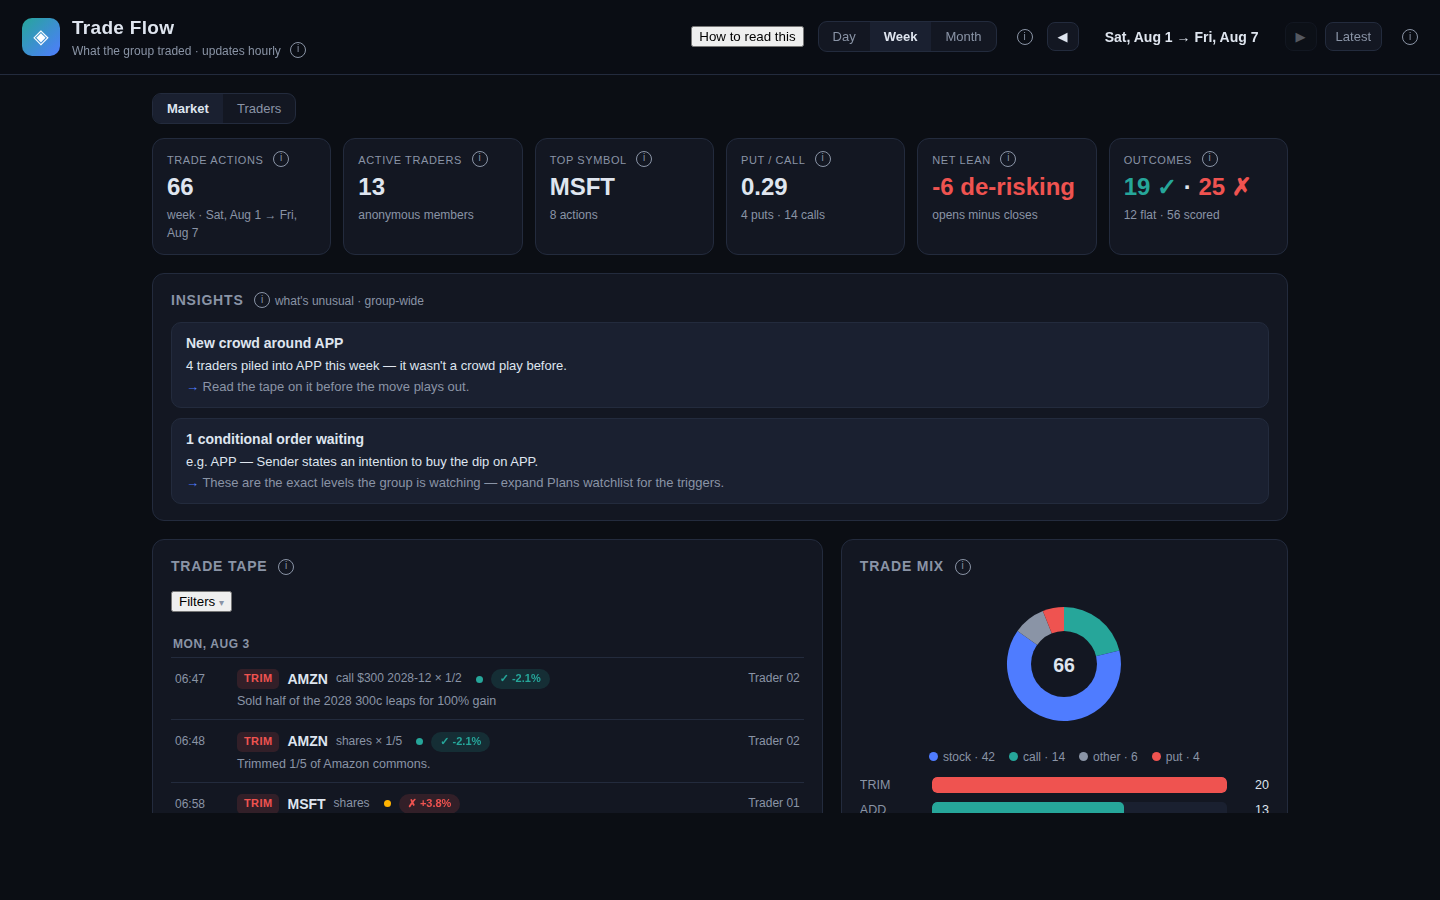
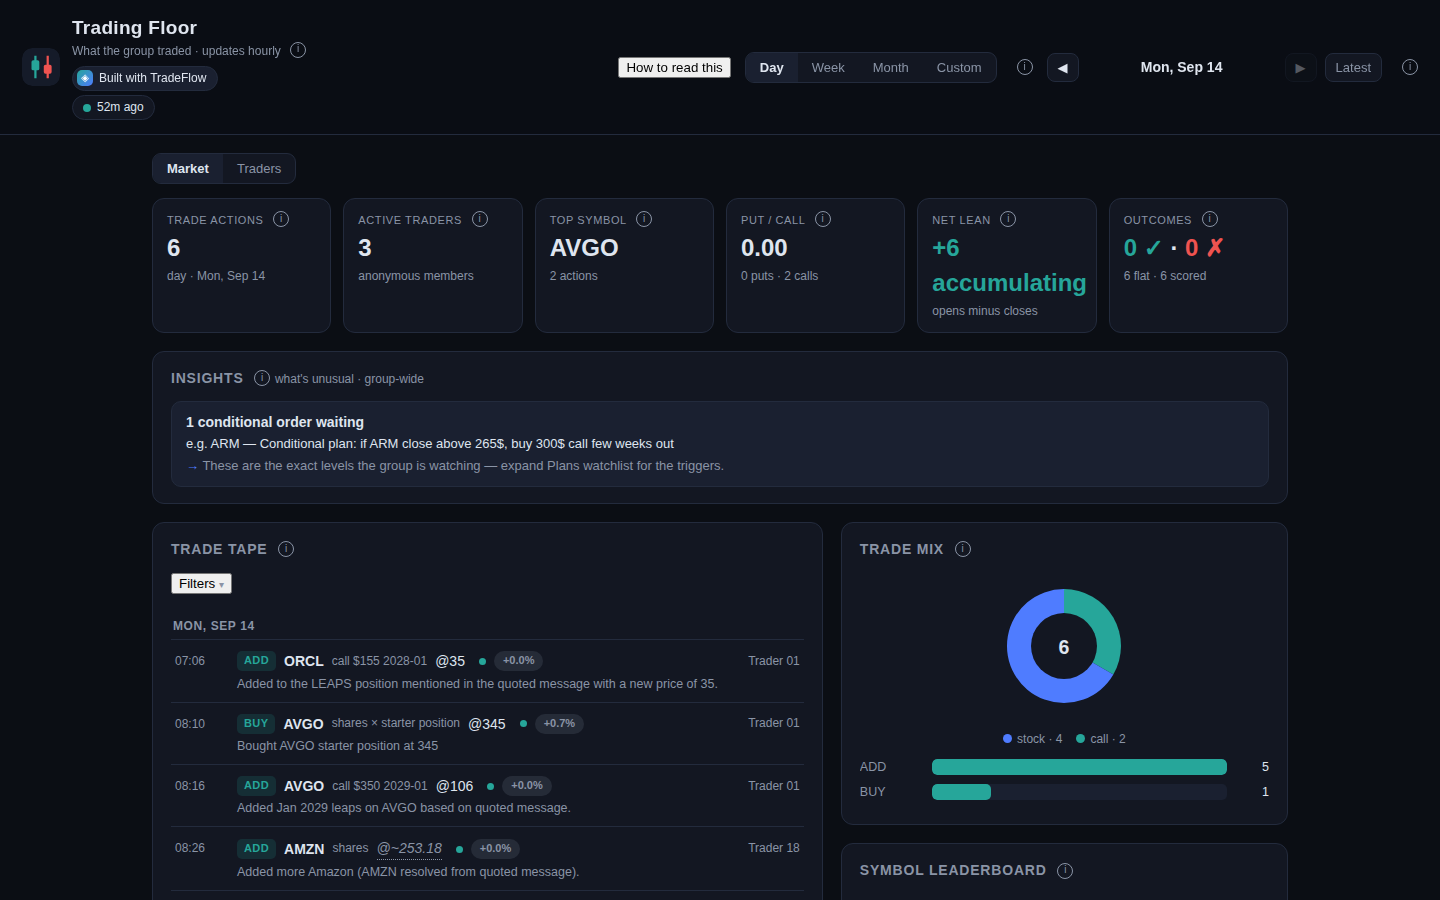
trade-flow page: rename to Trading Floor, fresh demo screenshot, live-data copy
- demo-screenshot.png refreshed (was Sep 13; now shows Trading Floor name,
  candle logo, assumed-price and incomplete markers).
- 'Sample data' wording corrected: the demo reads live anonymized data,
  refreshed hourly.
- Stats updated to current numbers (242 actions, 217 scored).

diff --git a/trade-flow/index.html b/trade-flow/index.html
@@ -6,10 +6,10 @@
   <meta name="color-scheme" content="light" />
   <meta name="theme-color" content="#f4f3ee" />
   <link rel="icon" href="data:," />
-  <title>Trade Flow — Free, open-source WhatsApp trade intelligence</title>
+  <title>Trading Floor — Free, open-source WhatsApp trade intelligence</title>
   <meta name="description" content="Free and open source: turn a WhatsApp trading group into a privacy-first trade tape on hardware you control." />
   <meta property="og:type" content="website" />
-  <meta property="og:title" content="Trade Flow — Free, open-source WhatsApp trade intelligence" />
+  <meta property="og:title" content="Trading Floor — Free, open-source WhatsApp trade intelligence" />
   <meta property="og:description" content="Turn a WhatsApp trading group into a structured, anonymized trade tape with outcome scoring. Open source, read-only, runs on your own hardware." />
   <meta property="og:url" content="https://vibhortayal.github.io/trade-flow/" />
   <meta property="og:image" content="https://vibhortayal.github.io/trade-flow/demo-screenshot.png" />
@@ -447,7 +447,7 @@
 <body>
   <header class="topnav">
     <nav class="wrap topnav-inner" aria-label="Page navigation">
-      <a class="brand" data-tab="demo"><i aria-hidden="true"></i>Trade Flow</a>
+      <a class="brand" data-tab="demo"><i aria-hidden="true"></i>Trading Floor</a>
       <div class="toplinks" role="tablist" aria-label="Page sections">
         <a data-tab="demo" role="tab" aria-selected="true" class="active">Overview</a>
         <a data-tab="how" role="tab" aria-selected="false">How it works</a>
@@ -465,7 +465,7 @@
       <section class="hero wrap">
       <div class="hero-copy">
       <h1>Your trading chat, made legible.</h1>
-      <p>Trade Flow turns a WhatsApp group into a structured trade tape — what the crowd is trading, who's active, and how those calls played out. Runs on your hardware. Read-only: it watches and scores, never trades.</p>
+      <p>Trading Floor turns a WhatsApp group into a structured trade tape — what the crowd is trading, who's active, and how those calls played out. Runs on your hardware. Read-only: it watches and scores, never trades.</p>
       <div class="actions">
       <a class="btn btn-primary" href="https://wa-trade-flow.vercel.app" target="_blank" rel="noopener">Explore the live demo <span aria-hidden="true">↗</span></a>
       </div>
@@ -484,19 +484,19 @@
         <div class="panel-head">
           <span class="kicker">Overview</span>
           <h2>See what your group looks like as data.</h2>
-          <p>The live demo is the real dashboard running on sample data. Same trade tape, outcome badges, crowd insights, and per-trader cards — fully anonymized.</p>
+          <p>The live demo is the real dashboard running on live data from a real trading group. Same trade tape, outcome badges, crowd insights, and per-trader cards — fully anonymized.</p>
         </div>
         <div class="live-stats" aria-label="Real usage numbers">
           <div><strong>36</strong><span>members in the group it runs on</span></div>
-          <div><strong>91</strong><span>trade actions parsed</span></div>
-          <div><strong>82</strong><span>outcomes scored</span></div>
+          <div><strong>242</strong><span>trade actions parsed</span></div>
+          <div><strong>217</strong><span>outcomes scored</span></div>
         </div>
         <div class="demo-cta">
           <a class="btn btn-primary" href="https://wa-trade-flow.vercel.app" target="_blank" rel="noopener">Open the live demo <span aria-hidden="true">↗</span></a>
-          <p class="demo-note">No sign-up, no keys — it's a static site reading sample data. Your own deployment reads live from your database.</p>
+          <p class="demo-note">No sign-up, no keys — it's a static site reading live data, refreshed hourly. Your own deployment reads from your database.</p>
         </div>
         <figure class="shot">
-          <img src="demo-screenshot.png" alt="Trade Flow dashboard showing the trade tape, outcome badges, and trader stats" width="1440" height="900" />
+          <img src="demo-screenshot.png" alt="Trading Floor dashboard showing the trade tape, outcome badges, and trader stats" width="1440" height="900" />
           <figcaption>The <a href="https://wa-trade-flow.vercel.app" target="_blank" rel="noopener">live demo</a> — the real dashboard, fully anonymized.</figcaption>
         </figure>
         <div class="cards signal-grid">
@@ -654,7 +654,7 @@
           <h3>The setup prompt</h3>
           <button class="btn btn-secondary" id="copyPrompt" type="button">Copy prompt</button>
         </div>
-        <div class="terminal prompt-scroll" aria-label="Setup prompt"><div class="terminal-bar"><i></i><i></i><i></i></div><span id="setupPrompt">Set up Trade Flow end to end: https://github.com/vibhortayal/wa-trade-bot
+        <div class="terminal prompt-scroll" aria-label="Setup prompt"><div class="terminal-bar"><i></i><i></i><i></i></div><span id="setupPrompt">Set up Trading Floor end to end: https://github.com/vibhortayal/wa-trade-bot
 
 WHAT IT IS: an hourly pipeline on a VM. A WhatsApp linked-device reader pulls new messages from one trading group, an LLM (Gemini by default, any OpenAI-compatible API works) extracts structured trade actions, market data (TradingView by default, Yahoo Finance works too) scores each outcome over five trading days, and pseudonymized records land in Postgres (Supabase by default, any PostgREST endpoint works) for a static dashboard.
 
